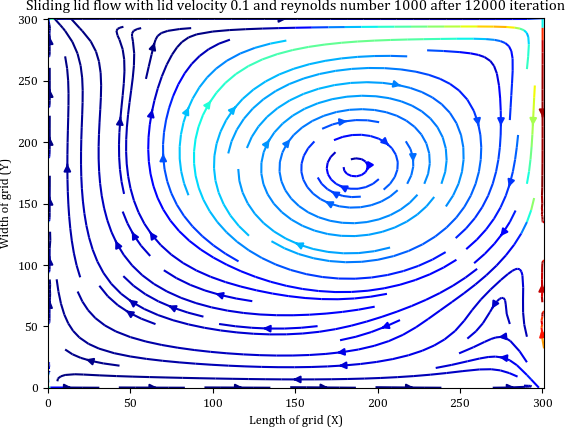
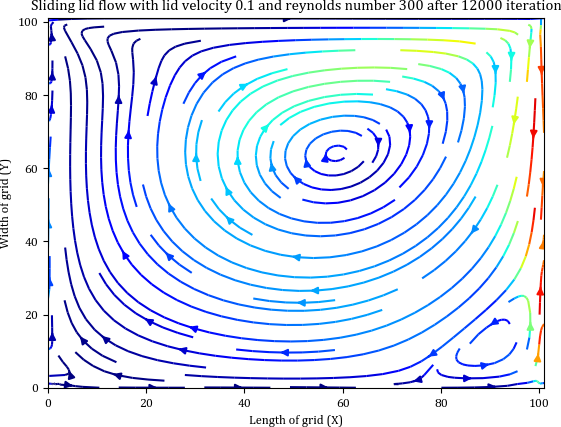
Report done

Changed region(s): [[0.0303, 0.0, 1.0, 1.0]]

diff --git a/simulattions/sliding_lid.py b/simulattions/sliding_lid.py
@@ -54,27 +54,28 @@ def sliding_lid_simulation(Nx: int, Ny: int, re: float, output_dir: str, save_ev
     velocity = np.zeros((Ny+2,Nx+2,2))
     f = lbm.calculate_equilibrium(density,velocity)
     
-        
+    relax_time = round(Nx * lid_vel/re, 2)
     # Iteration starts from here
     for step in range(steps):
         print(f'{step+1}//{steps}', end="\r")  
 
         # Streaming, Bounceback and Collision
         f = lbm.streaming(f)
-        f = boundary.sliding_bounce_back(f,lid_vel,velocity)
+        f = boundary.f_rigid_wall(f, False, True, True, True)
+        f = boundary.f_moving_wall(f,lid_vel)
         f, density, velocity = lbm.calculate_collision(f, omega)        
         
         # Saving steps 
         if save_every is not None and (not (step % save_every)) and step !=0:
             axes[0].cla()
             axes[0].set_ylabel("Width of grid (Y)")
-            axes[0].set_xlabel("Length of grid (X)")
+            axes[0].set_xlabel(f"Relaxation {relax_time}, Uw {lid_vel}")
             x, y = np.meshgrid(np.arange(Nx+2), np.arange(Ny+2)) 
             speed = np.sqrt(velocity[:, :, 0].T**2 + velocity[:, :, 1].T**2)           
             axes[0].streamplot(x, y, velocity[:, :, 1], velocity[:, :, 0], color=speed, cmap = plt.cm.jet)
             save_path = os.path.join(common_path, f'sliding_{step}.png')
             axes[0].set_title('Sliding lid flow with lid velocity {} and reynolds number {} after {} iteration'.format(lid_vel,re, step))
-            figs[0].savefig(save_path, bbox_inches='tight', pad_inches=0)            
+            figs[0].savefig(save_path, bbox_inches='tight', pad_inches=0.5)            
             sliding_lid_velocity_list.append(velocity)        
 
     # Animate the sliding_lid flow     

diff --git a/init.py b/init.py
@@ -89,19 +89,19 @@ def experiment_type(type):
 
     # Sliding lid serialized settings
     elif (type == CV.sliding_lid):
-        Nx = 100
-        Ny = 100
-        steps = 20001
+        Nx = 150
+        Ny = 150
+        steps = 10001
         rho_null = 1
-        re = 1000
+        re = 300
         output_dir = 'results'
-        save_every = 500
+        save_every = 2000
         lid_velocity = 0.1        
         sliding_lid.sliding_lid_simulation(Nx, Ny, re, output_dir, save_every, steps, lid_velocity)
 
 """Define the experiemnt  category"""
 if __name__ == "__main__":
     # 'shear_wave', 'couette_flow', 'poiseuille_flow', 'sliding_lid'
-    experiment_type("poiseuille_flow")
+    experiment_type("sliding_lid")
 
 #

diff --git a/simulattions/poiseuilleFlow.py b/simulattions/poiseuilleFlow.py
@@ -67,8 +67,7 @@ def poiseuille_simulation(rho_null, p_diff, output_dir, Nx, Ny, relaxation,steps
         rho, velocity, f =lbm.periodic_boundary_with_pressure_variations(f,rho_in,rho_out)
         f = lbm.streaming(f)
         # Apply boundary        
-        f = boundary.f_rigid_wall(f,True,True,False,False)
-        # f = boundary.poiseuille_bounce_back(f,0)        
+        f = boundary.f_rigid_wall(f,True,True,False,False)               
         velocity = lbm.calculate_velocity(f,rho)
         f, density, velocity = lbm.calculate_collision(f, relaxation)
         if save_every is not None and (not (step % save_every) and step!=0):

diff --git a/simulattions/codeplot.py b/simulattions/codeplot.py
@@ -33,9 +33,9 @@ fig.suptitle("Sliding lid with omega = {}, processes = {}, lid vel = {} and reyn
 
 for itx in range(0, 10, 1):
         ax = plt.subplot(2,5,i)
-        ax.set_title("iteration: {}".format(itx))
-        ax.set_xlabel("length")
-        ax.set_ylabel("width")
+        ax.set_title("iteration: {}".format(itx*1000))
+        ax.set_xlabel("Length")
+        ax.set_ylabel("Width")
         ax.set_xlim(0,nx)
         ax.set_ylim(0,ny)
         #ax.invert_yaxis()

diff --git a/simulattions/sliding_lid_mpi/mlups_plot.py b/simulattions/sliding_lid_mpi/mlups_plot.py
@@ -39,7 +39,7 @@ for file in data_files:
 # Plot structuring
 ax.legend(['200 x 200','400 x 400','600 x 600','800 x 800','1000 x 1000'])
 ax.set_title('MLups (seconds) vs No. of processes for different grid size')
-ax.grid()
+ax.grid(True,which="both")
 ax.set_xscale('log')
 ax.set_yscale('log')
 ax.set_xlabel('No. of processes')

diff --git a/lbm_common/constant.py b/lbm_common/constant.py
@@ -21,6 +21,6 @@ sliding_lid = 'sliding_lid'
 
 
 """Plot Global settings"""
-fontsize = 9
+fontsize = 11
 fontfamily = 'Cambria'
 
